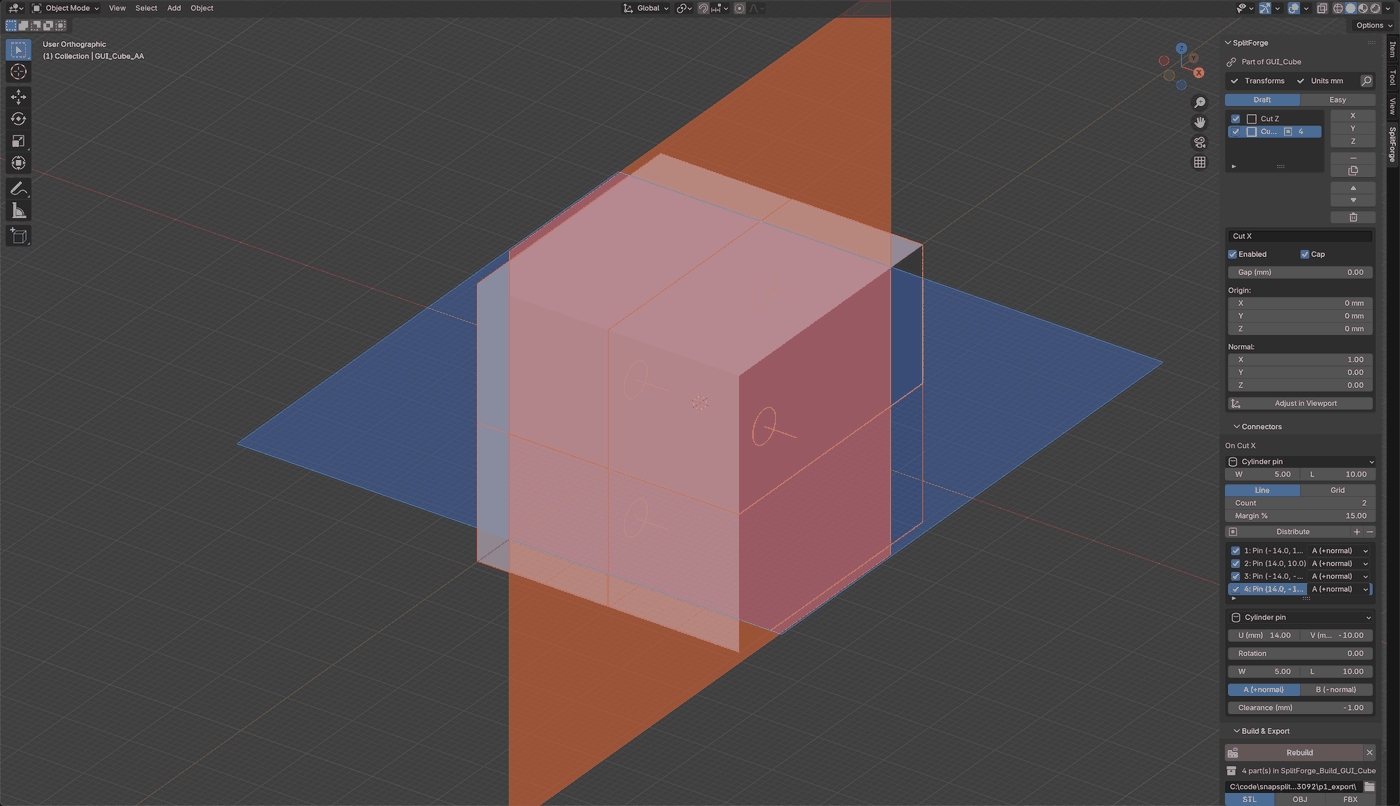
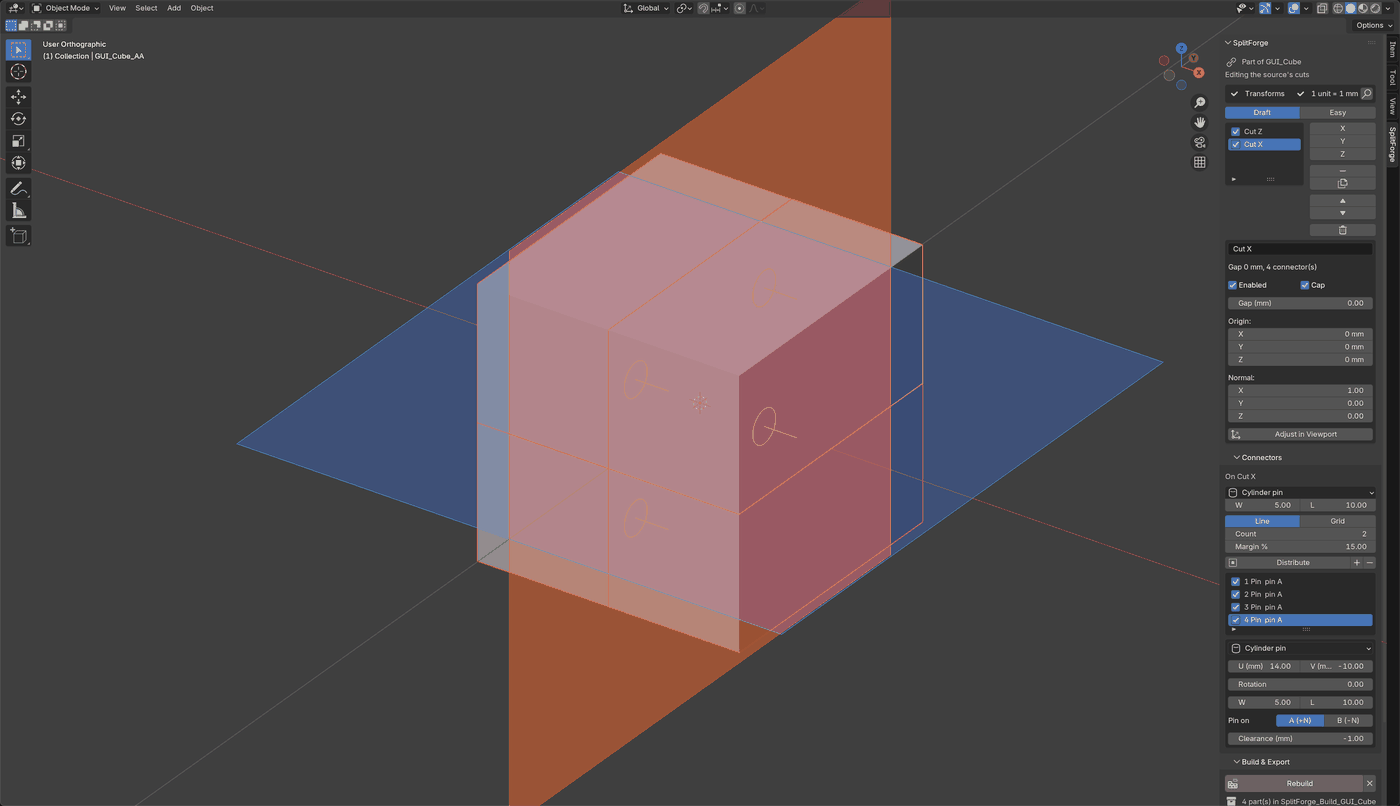
Docs: unit convention decision, D1 fix, follow-up QA notes
CHECKLIST P1-1/P1-2 rewritten for the Blender display convention, P1-8 gains
the D1 acceptance (test_connectors_fit). MANUAL_QA: standard setup is now
Millimeters + Unit Scale 0.001 with a 40 mm cube, follow-up fixes recorded
under the live verification. PLAN: units row. README setup. Refreshed
p1_panel screenshots.

diff --git a/docs/CHECKLIST.md b/docs/CHECKLIST.md
@@ -35,11 +35,16 @@
 전역 설정 `Scene.splitforge`, 파트 프로퍼티 `["splitforge_source"]`·`["splitforge_cut_ids"]`, 결과 컬렉션 `SplitForge_Build_<obj>`,
 패키지 폴더 `splitforge/`(이름은 `splitforge/core/naming.py`에 중앙화). 레거시 `snapsplit.*`·`Scene.snapsplit`는 유지.
 
-- [x] **P1-1 core/units.py**: `mm_to_scene`/`scene_to_mm`가 `scale_length`와 `length_unit`(mm/cm/m/inch) 전부 반영.
-  검증: `test_units.py` 확장 — mm 씬 1.0, m 씬(scale 1) 0.001, cm 씬 0.1, scale_length 0.001+m 씬 1.0, imperial inch 1/25.4 (허용 1e-9). PASS.
-  결과(2026-10-09, feat/p1-mvp2): PASS 4.5/5.2(+ ADAPTIVE·NONE 케이스). `scale_length`는 float32라 7자리 유효숫자로 반올림(0.001 → 0.0010000000475 보정). **사용자 결정 필요**: 이 규약(1 BU = length_unit × scale_length)은 Blender 자체 표시(1 BU = scale_length m)와 Meters 외에는 다르다(mm+1.0 씬에서 40 BU 큐브가 N 패널에 40000 mm로 표시).
-- [x] **P1-2 core/validate.py**: `validate(obj) -> ValidationReport(manifold, loose_geom, transform_applied, unit_is_mm, messages)`.
-  검증: `test_validate.py` — 큐브 OK; 면 하나 삭제한 큐브 `manifold=False`; scale 2 큐브 `transform_applied=False`; m 씬 `unit_is_mm=False`. PASS.
+- [x] **P1-1 core/units.py**: `mm_to_scene`/`scene_to_mm`가 Blender 표시 규약을 따른다: **1 BU = `scale_length` m**
+  (`length_unit`은 표시만 바꿈). 애드온의 mm 값은 항상 Blender가 mm로 보여 주는 값과 같다(2026-10-09 사용자 결정).
+  검증: `test_units.py` — mm 단위 +Unit Scale 0.001 → mm당 1.0 BU(표준 3D 프린트 설정), m+0.001 1.0, m+1.0 0.001,
+  mm+1.0 0.001(Blender가 40 BU를 40000 mm로 표시), cm+0.01 0.1, inch+0.0254 1/25.4, ADAPTIVE/NONE 0.001 (허용 1e-9),
+  각 설정에서 Blender 자체 변환(`bpy.utils.units.to_value("25 mm") / scale_length`)과 일치. PASS.
+  결과(2026-10-09, fix/p1-followups): PASS 4.5/5.2. `scale_length`는 float32라 7자리 유효숫자로 반올림. 모든 테스트 씬은
+  표준 설정(Millimeters + Unit Scale 0.001, 40 BU = 40 mm 큐브). (feat/p1-mvp2의 "1 BU = length_unit × scale_length" 규약은 폐기)
+- [x] **P1-2 core/validate.py**: `validate(obj) -> ValidationReport(manifold, loose_geom, transform_applied, unit_is_mm, mm_per_unit, messages)`.
+  검증: `test_validate.py` — 큐브 OK; 면 하나 삭제한 큐브 `manifold=False`; scale 2 큐브 `transform_applied=False`; m 씬(Unit Scale 1) `unit_is_mm=False`, `mm_per_unit=1000`과 메시지. PASS.
+  패널은 항상 실제 "1 unit = … mm"를 표시.
   결과: PASS 4.5/5.2(+ 느슨한 정점 `loose_geom`, 위치만 이동한 큐브는 transform OK, 비메시 오브젝트).
 - [x] **P1-3 model/props.py**: `SPLITFORGE_PG_Connector`, `SPLITFORGE_PG_Cut`, `SPLITFORGE_PG_CutStack`(+ `SPLITFORGE_PG_Settings`) 등록, `Object.splitforge_stack`.
   검증: `test_model.py` — 큐브에 컷 2개·커넥터 3개 추가 → `.blend` 저장 → `wm.open_mainfile` 후 값 동일. 등록/해제 반복 3회 예외 없음. PASS.
@@ -59,6 +64,7 @@
 - [x] **P1-8 connectors/placement.py**: 시임 프레임(origin, normal, tangent) + (u,v,rot) → 월드 행렬. 단일 함수가 자동/클릭/프리뷰 모두에 쓰임.
   검증: `test_placement.py` — 단위 프레임에서 (u=5,v=0) → 월드 x=5; 프레임 회전 90° → 대응 좌표. 자동 LINE 3개·margin 10% 위치가 시임 폭 내부. PASS. `grep -rn "def distribute_points" splitforge/connectors | wc -l` → `1`.
   결과: PASS 4.5/5.2. 자동 배치는 **시임 영역별**: 다른 컷이 시임을 나누면 영역마다 count개(다른 컷 평면 위에 커넥터가 놓이던 문제를 GUI에서 발견해 수정).
+  추가(fix/p1-followups, 결함 D1): 자동 배치는 시임 영역을 커넥터 도달 거리(반경+클리어런스+벽 0.4 mm)만큼 줄이고, 핀·소켓 전체(컷 법선 방향 깊이 포함, 핀 쪽 A/B 모두)를 원본 안에서 3D 검사해 안쪽으로 옮기거나 버리며 경고한다; Build는 표면을 뚫는 커넥터를 경고와 함께 건너뛴다. 검증: `test_connectors_fit.py` — 경사 컷(원점 (3,0,0), 법선 (1,0.6,0.35), gap 0.5) 커넥터 전부 벽 0.4 mm 이상, 빌드 경고 0, 파트 정점이 원본 큐브 밖 0, 가장자리 수동 커넥터는 건너뜀+경고, 옮긴 커넥터끼리 간격 유지. PASS 4.5/5.2.
 - [x] **P1-9 connectors/apply.py (핀/소켓)**: CYL_PIN·RECT_TENON에 대해 핀 UNION(pin_side 파트), 소켓 DIFFERENCE(반대 파트, 반경+클리어런스, 깊이+클리어런스). 컷당 커넥터 N개를 커터 join 후 **파트당 불리언 1회**.
   검증: `test_connectors_build.py` — 큐브 Z컷 + CYL_PIN 3개 빌드 → 양 파트 매니폴드, 핀 파트 부피 > 반쪽 부피, 소켓 파트 부피 < 반쪽 부피; `pin_side` 바꾸면 반대. 클리어런스 0.3mm 시 소켓 지름 = 핀 지름+0.6 (단면 bbox로 측정, 허용 0.02mm). PASS.
   결과: PASS 4.5/5.2(소켓 지름 5.6±0.02, 깊이 5.3, RECT_TENON 6.5×4.5, gap 1 mm, 겹친 커넥터, 불리언 호출 수 = 파트당 UNION 1·DIFFERENCE 1).
@@ -73,7 +79,7 @@
   결과: `test_ui_draw` PASS 4.5/5.2. GUI: `python3 tests/run_tests.py --gui`의 `p1_panel`(실제 버튼 클릭)·`p1_adjust_plane` PASS 4.5/5.2. 스크린샷 [4.5](qa/p1_panel_4.5.png) [5.2](qa/p1_panel_5.2.png), 모달 [4.5](qa/p1_adjust_plane_4.5.png) [5.2](qa/p1_adjust_plane_5.2.png).
 - [x] **P1-13 회귀**: 레거시 케이스(P0-5) 포함 전체 PASS, 두 버전.
   검증: `python3 tests/run_tests.py` exit 0.
-  독립 검증(2026-10-09, verifier, develop e148026): 헤드리스 24/24 ×2회 PASS(4.5.5/5.2.2), `--gui` 10시나리오 ×2버전 PASS, `--slow test_perf_large` PASS(5.2: split 4.54 s, connectors 12.97 s, build 9.16 s), 뮤테이션 13건 전부 테스트가 검출, `extension validate` 성공, 라이브 5.2 MCP PASS(MANUAL_QA "P1 라이브 검증"). 열린 결함: 경사 컷 자동 커넥터가 외곽 관통(P1-8 범위 밖, 중간).
+  독립 검증(2026-10-09, verifier, develop e148026): 헤드리스 24/24 ×2회 PASS(4.5.5/5.2.2), `--gui` 10시나리오 ×2버전 PASS, `--slow test_perf_large` PASS(5.2: split 4.54 s, connectors 12.97 s, build 9.16 s), 뮤테이션 13건 전부 테스트가 검출, `extension validate` 성공, 라이브 5.2 MCP PASS(MANUAL_QA "P1 라이브 검증"). 열린 결함: 경사 컷 자동 커넥터가 외곽 관통(P1-8 범위 밖, 중간) → fix/p1-followups에서 수정(아래 P1-8 추가 기준).
   결과: 헤드리스 24/24 PASS ×2회(4.5/5.2), `--gui` 10개 시나리오 PASS(4.5/5.2), `--slow --case test_perf_large` PASS(5.2: split 4.87 s, connectors 14.11 s, 새 Build 9.27 s).
 
 ## Phase 2 — 곡선 컷 + 불리언 폴백 + 진행률

diff --git a/README.md b/README.md
@@ -56,15 +56,15 @@ The maintainer reports successful testing with:
 
 Please report your results with other Blender versions, including the SnapSplit version and the workflow you tested.
 
-**Metadata note:** The current extension manifest declares Blender 4.2.0 as the minimum version, while the legacy `bl_info` metadata specifies Blender 5.2.0. These declarations are not a guarantee that every intervening version has been tested.
+**Metadata note:** The extension manifest (and `bl_info`) declare Blender 4.2.0 as the minimum version. SplitForge is tested automatically on Blender 4.5 LTS and 5.2 LTS; the declaration is not a guarantee that every intervening version has been tested.
 
 ### Installation
 
-1. Download the packaged SnapSplit release ZIP.
+1. Download the packaged SplitForge release ZIP (extension id `splitforge`).
 2. In Blender, open **Edit → Preferences → Add-ons**.
 3. Open the add-on menu and choose **Install from Disk…**.
-4. Select the SnapSplit ZIP and complete the installation.
-5. Enable SnapSplit if it is not enabled automatically.
+4. Select the SplitForge ZIP and complete the installation.
+5. Enable SplitForge if it is not enabled automatically.
 
 The exact installation controls may vary slightly between Blender versions.
 
@@ -72,13 +72,19 @@ If you download the repository rather than a packaged release, create an extensi
 
 ### Blender setup
 
-Recommended scene settings:
+Recommended scene settings (the usual 3D-print setup, 1 Blender unit = 1 mm):
 
 - **Unit System:** Metric
-- **Unit Scale:** 1.000
-- **Length:** Adaptive
+- **Unit Scale:** 0.001
+- **Length:** Millimeters
 
-Open the **3D Viewport sidebar** with **N**, then select the **SnapSplit** tab.
+SplitForge reads millimeters exactly as Blender displays them (1 unit = Unit Scale × 1000 mm),
+so with other settings the add-on's mm values still match the viewport; the panel shows the
+effective "1 unit = … mm" and exported STL/OBJ files are always written in millimeters.
+
+Open the **3D Viewport sidebar** with **N**, then select the **SplitForge** tab. The new
+Draft/Easy workflow is the main panel; the original SnapSplit tools are in its collapsed
+**Legacy** sub-panel.
 
 ### Mesh preparation and quality checks
 

diff --git a/docs/PLAN.md b/docs/PLAN.md
@@ -104,7 +104,7 @@ splitforge/                   # (Phase 0까지 snapsplit/)
   blender_manifest.toml
   core/
     compat.py                 # bpy.app.version 가드, 재질/모디파이어 API 차이 흡수
-    units.py                  # mm↔scene 정확 변환(scale_length·length_unit 전부 반영)
+    units.py                  # mm↔scene 정확 변환: Blender 표시와 같은 1 BU = scale_length m (2026-10-09 결정)
     log.py                    # logging 기반, DEBUG는 프리퍼런스 토글
     validate.py               # manifold/loose/transform/unit 검사 → ValidationReport
     boolean.py                # 불리언 파이프라인(4.4절)
@@ -266,7 +266,7 @@ run_cut(part_mesh_obj, cutter_solid, side) -> Result(obj, ok, method, stats)
 | 업스트림 freehand 브랜치 리베이스/변경 | 머지 충돌 | 새 모듈 격리(strangler), 동기화 주기 짧게 |
 | 커넥터별 불리언이 O(N)으로 느림(51만 면·핀 3개 12.8s) | 대형 메시 UX | 핀/소켓을 한 컷당 1회 UNION/DIFFERENCE로 묶기(커터 join), 진행률 표시 |
 | 모달 클릭 배치의 undo 불명확 | 사용자 혼란 | 클릭마다 `undo_push`, 테스트로 undo 횟수 검증(GUI 수동) |
-| 단위: cm/imperial/scale_length≠1 씬에서 치수 오류 | 출력물 치수 불량 | `core/units.py` + 검증 패널에서 mm 권장 및 자동 전환 |
+| 단위: cm/imperial/scale_length≠1 씬에서 치수 오류 | 출력물 치수 불량 | `core/units.py`(Blender 표시 규약 1 BU = scale_length m) + 검증 패널에 "1 unit = … mm" 표시, STL/OBJ는 항상 mm로 출력 |
 | 한 번에 레거시를 대체하려다 회귀 | 기능 손실 | 레거시 패널 유지, 동등성 테스트 통과 후 삭제 |
 
 ## 7. 사용자 결정 필요 사항
